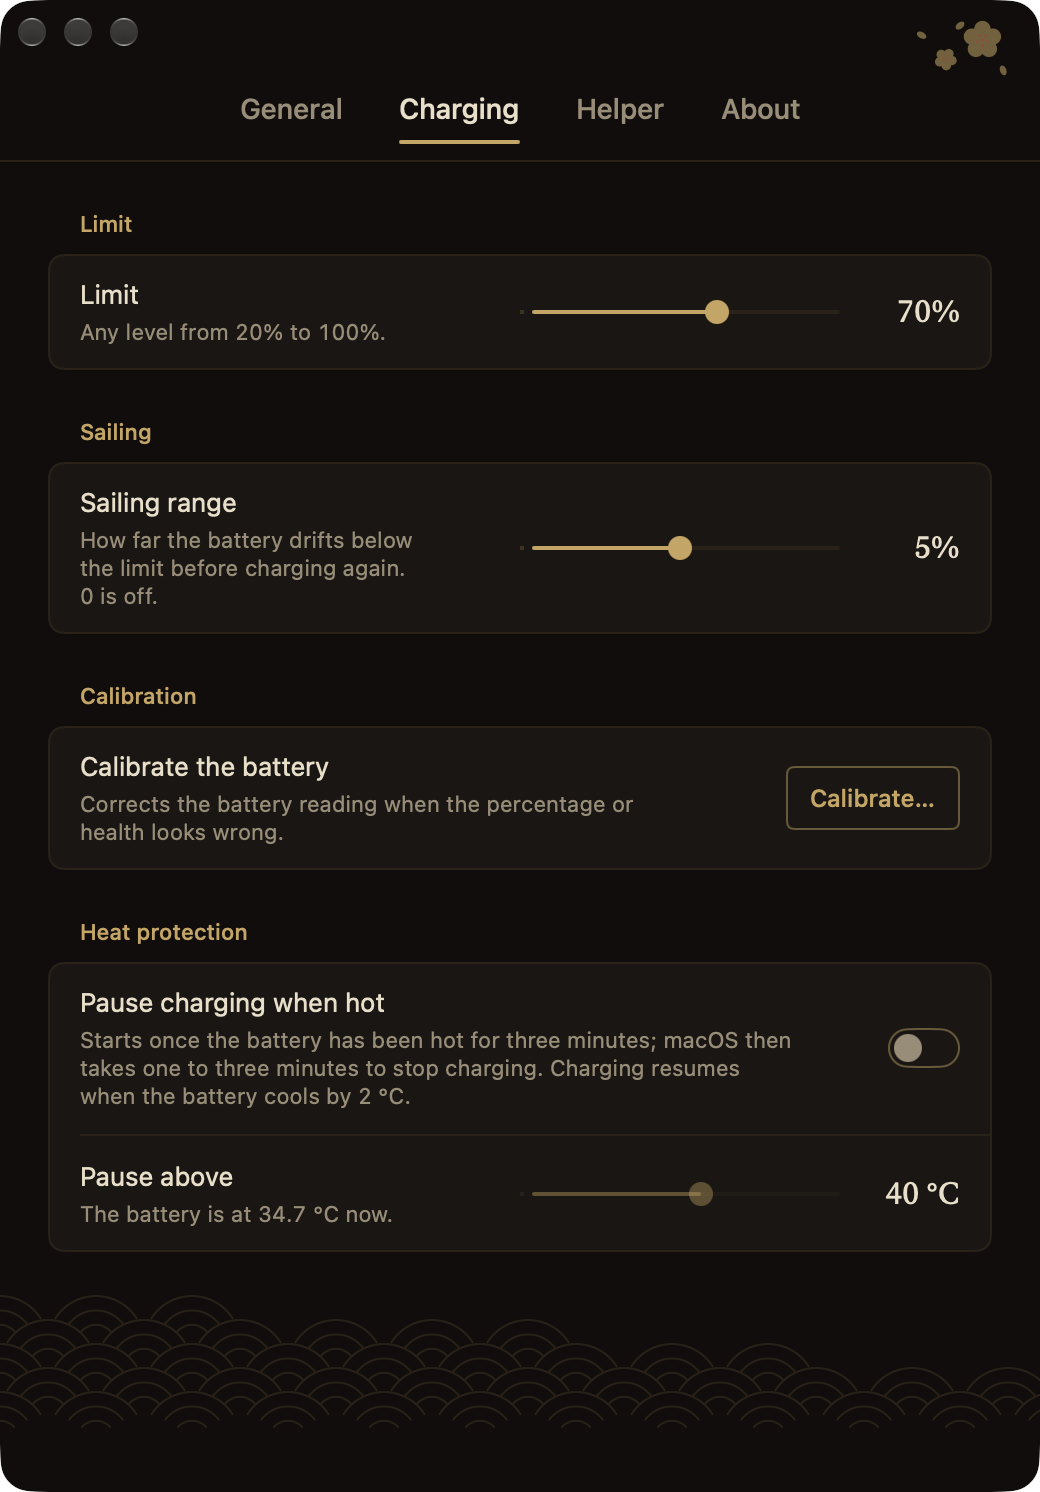
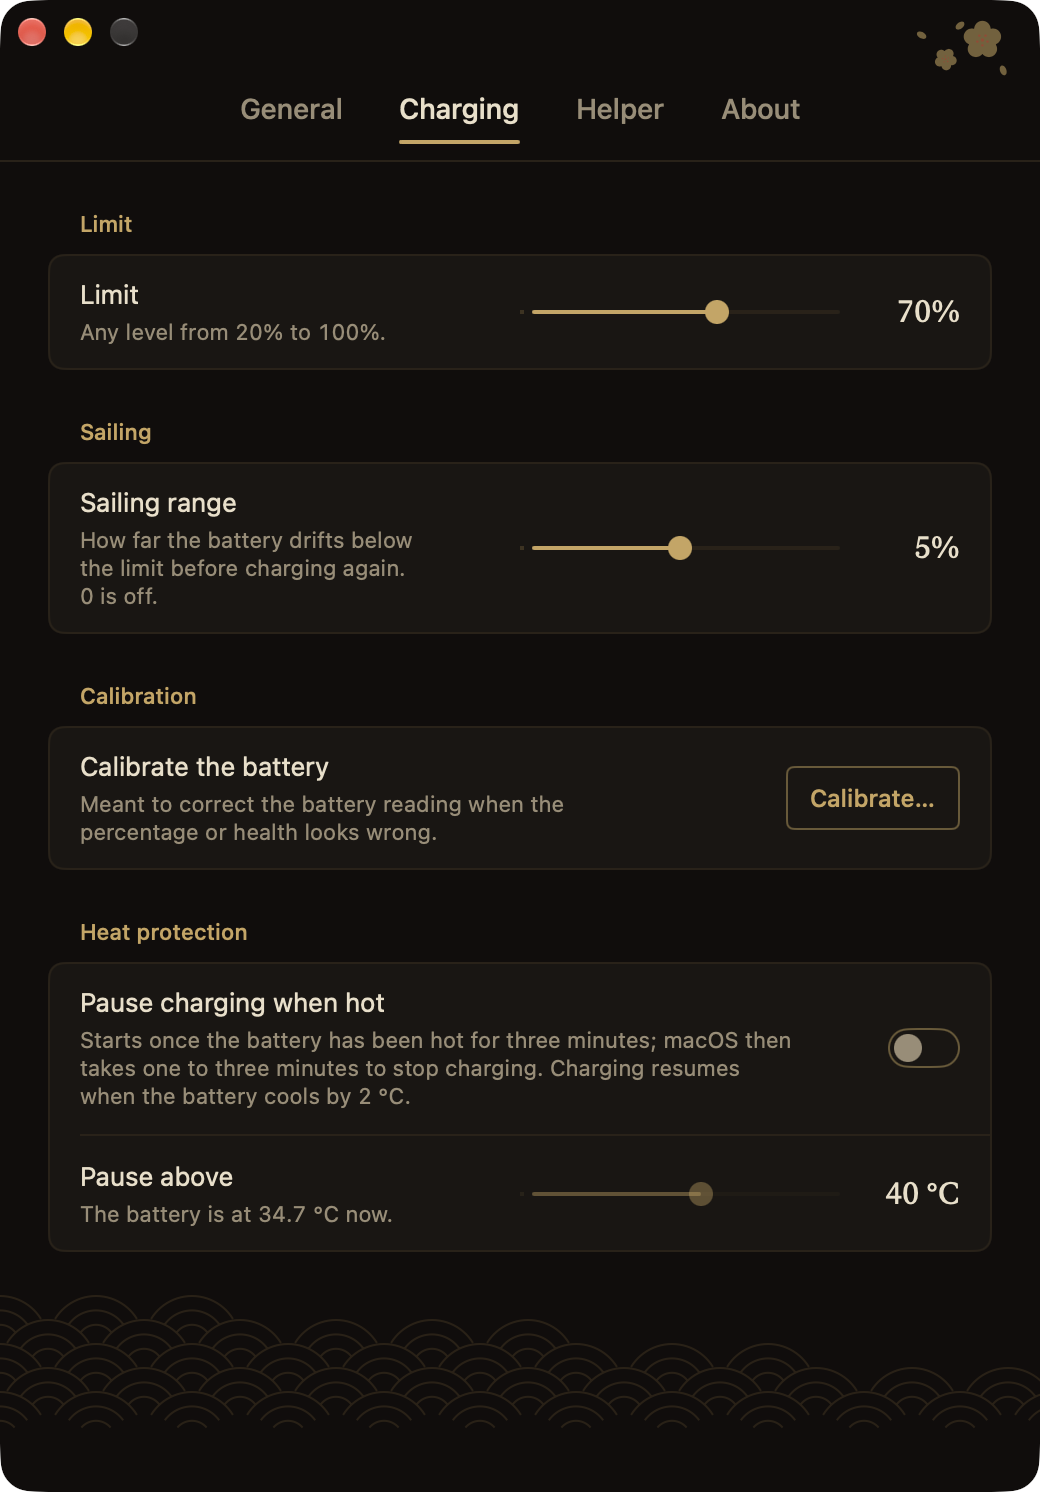
Update Hachibu from inside the app: a daily check you can switch off, and Check for Updates… in Settings
Uses Sparkle. Each update is verified against Hachibu's own signing key
before it is installed. The calibration wording in Settings now says
"meant to correct", like the README.

Changed region(s): [[0.0615, 0.5241, 0.5846, 0.5858], [0.0, 0.0, 0.0923, 0.0308]]

diff --git a/Sources/Hachibu/Updates.swift b/Sources/Hachibu/Updates.swift
@@ -1,0 +1,75 @@
+import AppKit
+import Observation
+@preconcurrency import Sparkle
+
+/// Checks for a newer version of Hachibu, and installs it, with Sparkle.
+///
+/// This is the only thing in Hachibu that uses the network. It reads one
+/// feed file (`SUFeedURL` in Info.plist) and, when the person agrees,
+/// downloads the new version; each download is checked against the public
+/// key in Info.plist before it is installed. Nothing about the Mac is sent.
+/// Test runs and command-line runs never check.
+@Observable
+final class Updates: NSObject {
+    static let shared = Updates()
+
+    /// A newer version that a check in the background found and has not
+    /// shown yet. The popover offers it, so nothing pops up while the
+    /// person is working in another app.
+    private(set) var availableVersion: String?
+    @ObservationIgnored private var controller: SPUStandardUpdaterController?
+
+    /// False for test runs, command-line runs, and a copy built without a feed.
+    static var canUpdate: Bool {
+        !Store.isOverridden && !Launch.isOneShot && Bundle.main.object(forInfoDictionaryKey: "SUFeedURL") != nil
+    }
+
+    /// The version this copy is.
+    static var installedVersion: String {
+        Bundle.main.object(forInfoDictionaryKey: "CFBundleShortVersionString") as? String ?? "–"
+    }
+
+    func start() {
+        guard Self.canUpdate, controller == nil else { return }
+        let controller = SPUStandardUpdaterController(startingUpdater: false, updaterDelegate: nil, userDriverDelegate: self)
+        controller.updater.automaticallyChecksForUpdates = Preferences.shared.checksForUpdates
+        controller.startUpdater()
+        self.controller = controller
+    }
+
+    /// "Check for Updates…": asks now and shows the answer, whatever it is.
+    func check() {
+        NSApp.activate()
+        controller?.checkForUpdates(nil)
+    }
+
+    func setAutomatic(_ isOn: Bool) {
+        controller?.updater.automaticallyChecksForUpdates = isOn
+    }
+}
+
+extension Updates: SPUStandardUserDriverDelegate {
+    nonisolated var supportsGentleScheduledUpdateReminders: Bool { true }
+
+    /// Sparkle shows what a background check found only when Hachibu is the
+    /// app in front. Otherwise the popover says so and waits to be asked.
+    nonisolated func standardUserDriverShouldHandleShowingScheduledUpdate(_ update: SUAppcastItem,
+                                                                          andInImmediateFocus immediateFocus: Bool) -> Bool {
+        immediateFocus
+    }
+
+    nonisolated func standardUserDriverWillHandleShowingUpdate(_ handleShowingUpdate: Bool, forUpdate update: SUAppcastItem,
+                                                               state: SPUUserUpdateState) {
+        guard !handleShowingUpdate else { return }
+        let version = update.displayVersionString
+        Task { @MainActor in self.availableVersion = version }
+    }
+
+    nonisolated func standardUserDriverDidReceiveUserAttention(forUpdate update: SUAppcastItem) {
+        Task { @MainActor in self.availableVersion = nil }
+    }
+
+    nonisolated func standardUserDriverWillFinishUpdateSession() {
+        Task { @MainActor in self.availableVersion = nil }
+    }
+}

diff --git a/Sources/Hachibu/SettingsView.swift b/Sources/Hachibu/SettingsView.swift
@@ -86,7 +86,7 @@ struct CalibrationDialog: View {
                       })
         } else {
             KitDialog(title: "Calibrate the battery",
-                      message: "Corrects the percentage and the health reading. It does not improve the battery, and it uses one full charge cycle.",
+                      message: "Meant to correct the percentage and the health reading. It does not improve the battery, and it uses one full charge cycle.",
                       steps: Self.steps,
                       note: refusal ?? "Takes several hours. Keep the charger connected. Quitting Hachibu ends it. The drain waits while the Mac sleeps; Hachibu does not keep the Mac awake.",
                       primaryTitle: "Calibrate", primary: { refusal = monitor.startCalibration() },
@@ -146,6 +146,21 @@ struct GeneralSettings: View {
                     Toggle("Show percentage", isOn: $preferences.showPercentage).toggleStyle(.kit)
                 }
             }
+            SettingsSection(title: "Updates") {
+                SettingsRow(title: "Check automatically",
+                            detail: "Once a day Hachibu asks GitHub whether there is a newer version. Nothing about your Mac is sent.") {
+                    Toggle("Check for updates automatically", isOn: $preferences.checksForUpdates).toggleStyle(.kit)
+                }
+                // A snapshot shows the row as it looks in the real app.
+                let canUpdate = Updates.canUpdate || Snapshot.isRunning
+                SettingsRow(title: "Version \(Updates.installedVersion)",
+                            detail: canUpdate ? "Updates are checked against Hachibu's signing key before they are installed."
+                                : "This copy of Hachibu cannot update itself.") {
+                    Button("Check for Updates…") { Updates.shared.check() }
+                        .buttonStyle(.kit(.secondary)).fixedSize()
+                        .disabled(!canUpdate)
+                }
+            }
             SettingsSection(title: "Notifications") {
                 SettingsRow(title: "Limit not holding", detail: "The battery is charging above your limit.") {
                     Toggle("Limit not holding", isOn: $preferences.notifyLimitNotHolding).toggleStyle(.kit)
@@ -201,7 +216,7 @@ struct ChargingSettings: View {
                 } else {
                     SettingsRow(title: "Calibrate the battery",
                                 detail: monitor.helper.isRunning
-                                    ? "Corrects the battery reading when the percentage or health looks wrong."
+                                    ? "Meant to correct the battery reading when the percentage or health looks wrong."
                                     : "Calibration needs the helper.") {
                         Button("Calibrate…") { model.showingCalibration = true }
                             .buttonStyle(.kit(.secondary)).fixedSize()

diff --git a/Sources/Hachibu/Preferences.swift b/Sources/Hachibu/Preferences.swift
@@ -17,6 +17,7 @@ final class Preferences {
         static let notifyFullCharge = "notify.fullCharge"
         static let notifyTopUpFinished = "notify.topUpFinished"
         static let notifyCalibrationFinished = "notify.calibrationFinished"
+        static let checksForUpdates = "updates.automatic"
         static let sailingRange = "charging.sailingRange"
         static let sailingHold = "charging.sailingHold"
         static let modeAsk = "charging.modeAsk"
@@ -38,6 +39,13 @@ final class Preferences {
     var notifyFullCharge: Bool { didSet { defaults.set(notifyFullCharge, forKey: Key.notifyFullCharge) } }
     var notifyTopUpFinished: Bool { didSet { defaults.set(notifyTopUpFinished, forKey: Key.notifyTopUpFinished) } }
     var notifyCalibrationFinished: Bool { didSet { defaults.set(notifyCalibrationFinished, forKey: Key.notifyCalibrationFinished) } }
+    /// Hachibu asks once a day whether there is a newer version.
+    var checksForUpdates: Bool {
+        didSet {
+            defaults.set(checksForUpdates, forKey: Key.checksForUpdates)
+            Updates.shared.setAutomatic(checksForUpdates)
+        }
+    }
     /// Percent the battery drifts below the limit before it charges again. 0 is off.
     var sailingRange: Int { didSet { defaults.set(sailingRange, forKey: Key.sailingRange) } }
     /// The level sailing last asked macOS to hold. nil when none. Kept so
@@ -112,6 +120,7 @@ final class Preferences {
         notifyFullCharge = bool(Key.notifyFullCharge, true)
         notifyTopUpFinished = bool(Key.notifyTopUpFinished, true)
         notifyCalibrationFinished = bool(Key.notifyCalibrationFinished, true)
+        checksForUpdates = bool(Key.checksForUpdates, true)
         sailingRange = int(Key.sailingRange, 0)
         sailingHold = store.object(forKey: Key.sailingHold) as? Int
         modeAsk = store.object(forKey: Key.modeAsk) as? Int

diff --git a/Package.swift b/Package.swift
@@ -4,6 +4,10 @@ import PackageDescription
 let package = Package(
     name: "Hachibu",
     platforms: [.macOS("27.0")],
+    dependencies: [
+        // Checks for a new version, verifies it, and installs it.
+        .package(url: "https://github.com/sparkle-project/Sparkle", from: "2.6.0"),
+    ],
     targets: [
         // Rules and data logic with no SwiftUI, so tests run without the app.
         .target(name: "HachibuKit"),
@@ -15,7 +19,7 @@ let package = Package(
         ),
         .executableTarget(
             name: "Hachibu",
-            dependencies: ["HachibuKit", "HachibuSystem"],
+            dependencies: ["HachibuKit", "HachibuSystem", .product(name: "Sparkle", package: "Sparkle")],
             // App code runs on the main thread unless you say otherwise.
             swiftSettings: [.defaultIsolation(MainActor.self)]
         ),

diff --git a/Sources/Hachibu/PopoverView.swift b/Sources/Hachibu/PopoverView.swift
@@ -109,7 +109,22 @@ struct PopoverView: View {
         ]
     }
 
+    /// A newer version waiting to be installed. A snapshot page shows a made-up one.
+    private var updateVersion: String? {
+        Snapshot.isRunning ? (model.popoverPreview == .update ? "0.2" : nil) : Updates.shared.availableVersion
+    }
+
     private var footer: some View {
+        VStack(spacing: Space.sm) {
+            if let version = updateVersion {
+                Button("Update to Hachibu \(version)…") { Updates.shared.check() }
+                    .buttonStyle(.kit(.secondary))
+            }
+            footerButtons
+        }
+    }
+
+    private var footerButtons: some View {
         HStack(spacing: Space.xs) {
             Button("History…") { open(HistoryView.windowID) }
                 .buttonStyle(.kit(.ghost))

diff --git a/Sources/Hachibu/BatteryMonitor+Preview.swift b/Sources/Hachibu/BatteryMonitor+Preview.swift
@@ -13,6 +13,8 @@ enum PopoverPreview: String, CaseIterable {
     case calibrating
     /// Hot while charging: macOS is asked to hold the level.
     case heat
+    /// A newer version of Hachibu is waiting to be installed.
+    case update
 
     static let windowID = "popover-preview"
     static let windowTitle = "Hachibu Popover"
@@ -30,7 +32,7 @@ extension BatteryMonitor {
         var fixture = Fixture(reading: holding, limit: LimitState(system: 80, saved: 80))
         fixture.dayLevels = [58, 61, 66, 72, 78, 80, 80, 80, 80, 77, 74, 72, 75, 79, 80, 80, 80, 80, 80, 80]
         switch preview {
-        case .holding:
+        case .holding, .update:
             break
         case .charging:
             fixture.reading?.percent = 46

diff --git a/Sources/Hachibu/SelfTest.swift b/Sources/Hachibu/SelfTest.swift
@@ -67,6 +67,7 @@ enum SelfTest {
               !limit.available.isEmpty && LimitStops.normalized(limit.available).last == 100)
         check("a test run refuses to change the real limit", ChargeLimit.set(85) != nil)
         check("the real limit is unchanged after the refusal", ChargeLimit.read().limit == limit.limit)
+        check("a test run never checks for updates", !Updates.canUpdate)
 
         // S-005: the chosen limit is saved and read back.
         Preferences.shared.savedLimit = 85

diff --git a/Sources/HachibuKit/ChargeEngine.swift b/Sources/HachibuKit/ChargeEngine.swift
@@ -5,7 +5,7 @@ public enum ChargeMode: String, Equatable, Sendable {
     case normal
     /// Charging to 100% once; the limit returns afterwards.
     case toppingUp
-    /// A guided cycle that corrects the battery's reading: drain to 15%,
+    /// A guided cycle meant to correct the battery's reading: drain to 15%,
     /// charge to 100%, rest there, then back to the limit.
     case calibrating
 }

diff --git a/Sources/Hachibu/App.swift b/Sources/Hachibu/App.swift
@@ -91,6 +91,7 @@ final class AppDelegate: NSObject, NSApplicationDelegate {
         NSApp.setActivationPolicy(.accessory)
         Notifier.requestPermission()
         DockIcon.watch()
+        Updates.shared.start()
     }
 
     /// Closing Settings or History must not quit the menu bar app.

diff --git a/docs/BUILDING.md b/docs/BUILDING.md
@@ -22,6 +22,11 @@ and opens it. Other options:
 | `--open` | Quits the running copy and opens the new one. |
 | `--notarize` | Also sends the app to Apple's notary and staples the ticket. |
 
+Set `APP_DIR=<folder>` to put the app somewhere other than
+`~/Applications`, for looking at a build without replacing the copy that
+is running. `tools/snap.sh` and `tools/selftest.sh` take `APP_BINARY=<path>`
+to use it.
+
 Build products go to `~/Library/Developer/Hachibu`, outside the
 repository.
 
@@ -76,6 +81,29 @@ ditto -c -k --keepParent ~/Applications/Hachibu.app ~/Library/Developer/Hachibu/
 
 4. Create the release on GitHub with that zip, and put its `shasum -a 256`
    in the notes.
+5. Tell installed copies about it. Hachibu updates itself with
+   [Sparkle](https://sparkle-project.org), which reads `appcast.xml` at
+   the top of this repository. Sparkle's `generate_appcast` writes that
+   file from the folder of zips and signs each entry with the update
+   key in your keychain:
+
+```bash
+~/Library/Developer/Hachibu/build/artifacts/sparkle/Sparkle/bin/generate_appcast --account hachibu --download-url-prefix https://github.com/hammadmo/hachibu/releases/download/v<version>/ -o appcast.xml ~/Library/Developer/Hachibu/dist
+```
+
+   Commit and push `appcast.xml`. Copies of Hachibu find the new version
+   within a day.
+
+The update key was made once with Sparkle's `generate_keys --account hachibu`.
+Its private half lives only in the maintainer's login keychain; its
+public half is `SUPublicEDKey` in `Info.plist.in`. A build signed by
+anyone else is refused by every installed copy. Keep a backup of the key
+(`generate_keys --account hachibu -x <file>`): without it no update can
+reach the copies already installed.
+
+Set `CFBundleShortVersionString` in `Info.plist.in` to the new version
+before building. Sparkle compares build numbers, which `build.sh` makes
+from the date and time, so a later build is always newer.
 
 ## Where to read next
 

diff --git a/README.md b/README.md
@@ -25,8 +25,10 @@ The name comes from *hara hachi bu*: eat until you are eight parts full.
 A battery kept below full lasts longer, so Hachibu stops charging before
 it gets there.
 
-Hachibu runs on your Mac only. It has no account and no server, and it
-sends nothing anywhere. It is free and open source.
+Hachibu runs on your Mac only, with no account and no server. The one
+thing it does on the network is ask GitHub, once a day, whether there is
+a newer version. Nothing about you or your Mac is sent, and you can
+switch the check off in Settings. It is free and open source.
 
 ## Why Hachibu
 
@@ -64,6 +66,7 @@ Pro features in AlDente; in Hachibu they are part of the app.
 | **Calibration** | A guided cycle meant to correct the percentage and health readings: drain to 15%, charge to 100%, rest for two hours. Whether it changes the readings has not been measured yet. |
 | **History** | Level, temperature, power, and health over a day, a week, or a month. |
 | **Notifications** | When the limit is not holding, when macOS starts a full charge of its own, and when a Top Up or a calibration finishes. Each can be switched off. |
+| **Updates** | Hachibu checks for a newer version once a day and installs it when you agree. Every update is verified against Hachibu's signing key first. The check can be switched off. |
 
 Limits below 80%, sailing, heat protection, and calibration need the
 [helper](#how-it-controls-charging). Without it, Hachibu sets macOS's own

diff --git a/CLAUDE.md b/CLAUDE.md
@@ -14,6 +14,7 @@ and release steps.
 - `Sources/Hachibu/SystemBattery.swift` reads the real battery (`SystemBattery`) and macOS's own charge limit (`ChargeLimit`).
 - `Sources/HachibuSystem/` C and Objective-C: the battery controller (SMC) and the private PowerUI framework. Read `docs/research/charge-control.md` before touching it.
 - `Sources/HachibuHelper/` the root helper, and `Sources/Hachibu/HelperManager.swift`, the app's side of it. The requests they share are in `Sources/HachibuKit/Helper.swift`. The helper accepts three requests and nothing else (set limit, restore adapter, read status); keep that list closed. It cannot cut the charger.
+- `Sources/Hachibu/Updates.swift` checks for a newer version and installs it, with Sparkle. It is the only code that uses the network; test runs and command-line runs never check.
 - `Sources/HachibuKit/` rules with no SwiftUI: status, limit source, the "Limit not holding" watch, formatting. Tests in `Tests/HachibuKitTests/`.
 - `Sources/Hachibu/DesignKit/` the design kit. `design/KIT.md` is its spec.
 - `Package.swift` a Swift package. There is no Xcode project.
